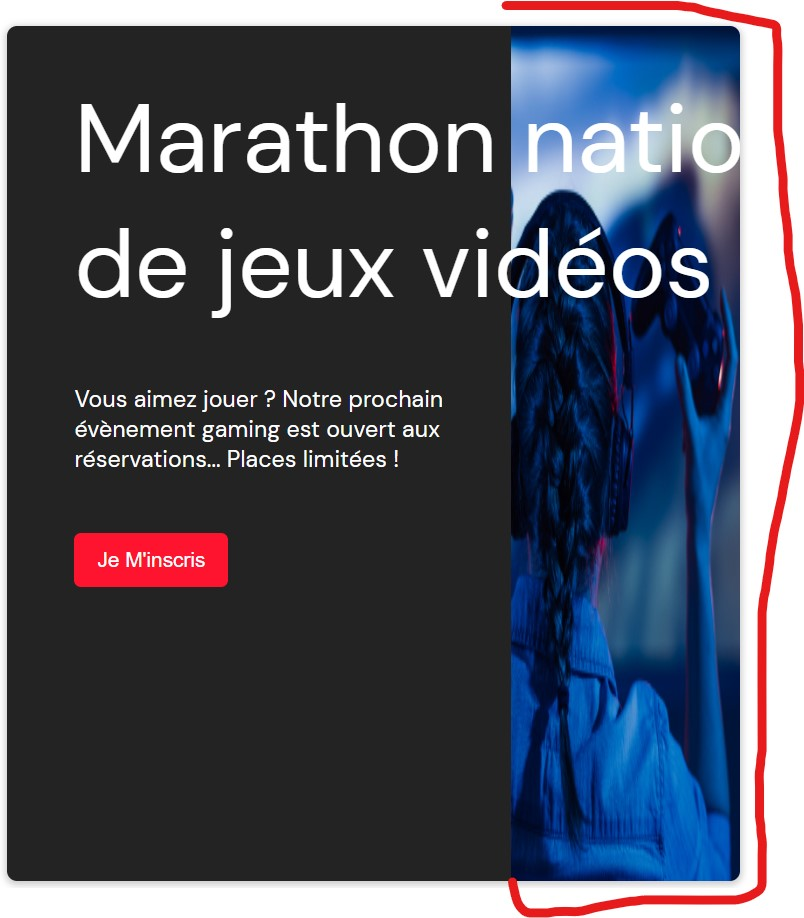
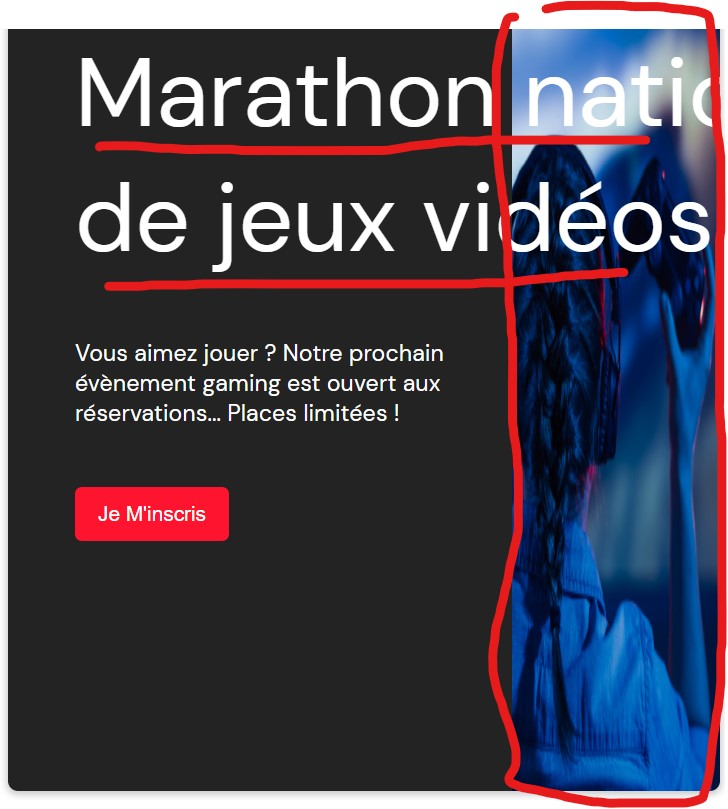
mise a jour du readme

diff --git a/modal.js b/modal.js
@@ -1,5 +1,5 @@
 /*-----------------------------------------
-Fichier fourni par le centre de formation
+Partie fourni par le centre de formation
 -----------------------------------------*/
 function editNav() {
   var x = document.getElementById("myTopnav");
@@ -22,3 +22,20 @@ modalBtn.forEach((btn) => btn.addEventListener("click", launchModal));
 function launchModal() {
   modalbg.style.display = "block";
 }
+/*-----------------------------------------
+Partie codée par l'étudiant
+-----------------------------------------*/
+
+// Fonction pour quitter la fenetre modale
+let modalExitCross = document.getElementsByClassName("close");
+
+// Fonction pour quitter la feneter modale
+function exitFromModal(e) {
+  if (e.target == modalExitCross[0]) {
+    // Variable "modalbg" récupéré dans le fichier fourni par le centre de formation
+    modalbg.style.display = "none";
+  }
+}
+
+// quitte la fenetre au "click"
+modalExitCross[0].addEventListener("click", exitFromModal);

diff --git a/modal.css b/modal.css
@@ -1,5 +1,5 @@
 /*-----------------------------------------
-Fichier fourni par le centre de formation
+Partie fourni par le centre de formation
 -----------------------------------------*/
 :root {
   --font-default: "DM Sans", Arial, Helvetica, sans-serif;
@@ -529,5 +529,20 @@ footer {
   }
   to {
     opacity: 1;
+  }
+}
+
+/*-----------------------------------------
+Partie codée par l'étudiant
+-----------------------------------------*/
+
+@media (min-width: 801px) and (max-width: 1000px) {
+  .hero-headline {
+    font-size: 4.5rem;
+  }
+  .hero-img img {
+    overflow: hidden;
+    width: min-content;
+    align-items: flex-end;
   }
 }

diff --git a/index.html b/index.html
@@ -216,6 +216,5 @@
       </p>
     </footer>
     <script src="modal.js"></script>
-    <script src="modalExit.js"></script>
   </body>
 </html>

diff --git a/README.md b/README.md
@@ -49,6 +49,26 @@ Ajouter la fonctionnalité au bouton (x)
 
 ## Tests manuels :
 
+### AVANT
+
+<p align="center">
+<img 
+class="IMGlink"
+src="./imagesReadme/001.jpg"
+width= 80%
+        />
+</p>
+
+### APRES
+
+<p align="center">
+<img 
+class="IMGlink"
+src="./imagesReadme/001b.jpg"
+width= 80%
+        />
+</p>
+
 ## Ajouter confirmation quand envoi réussi :
 
 ## Ajouter validation ou messages d'erreur :
